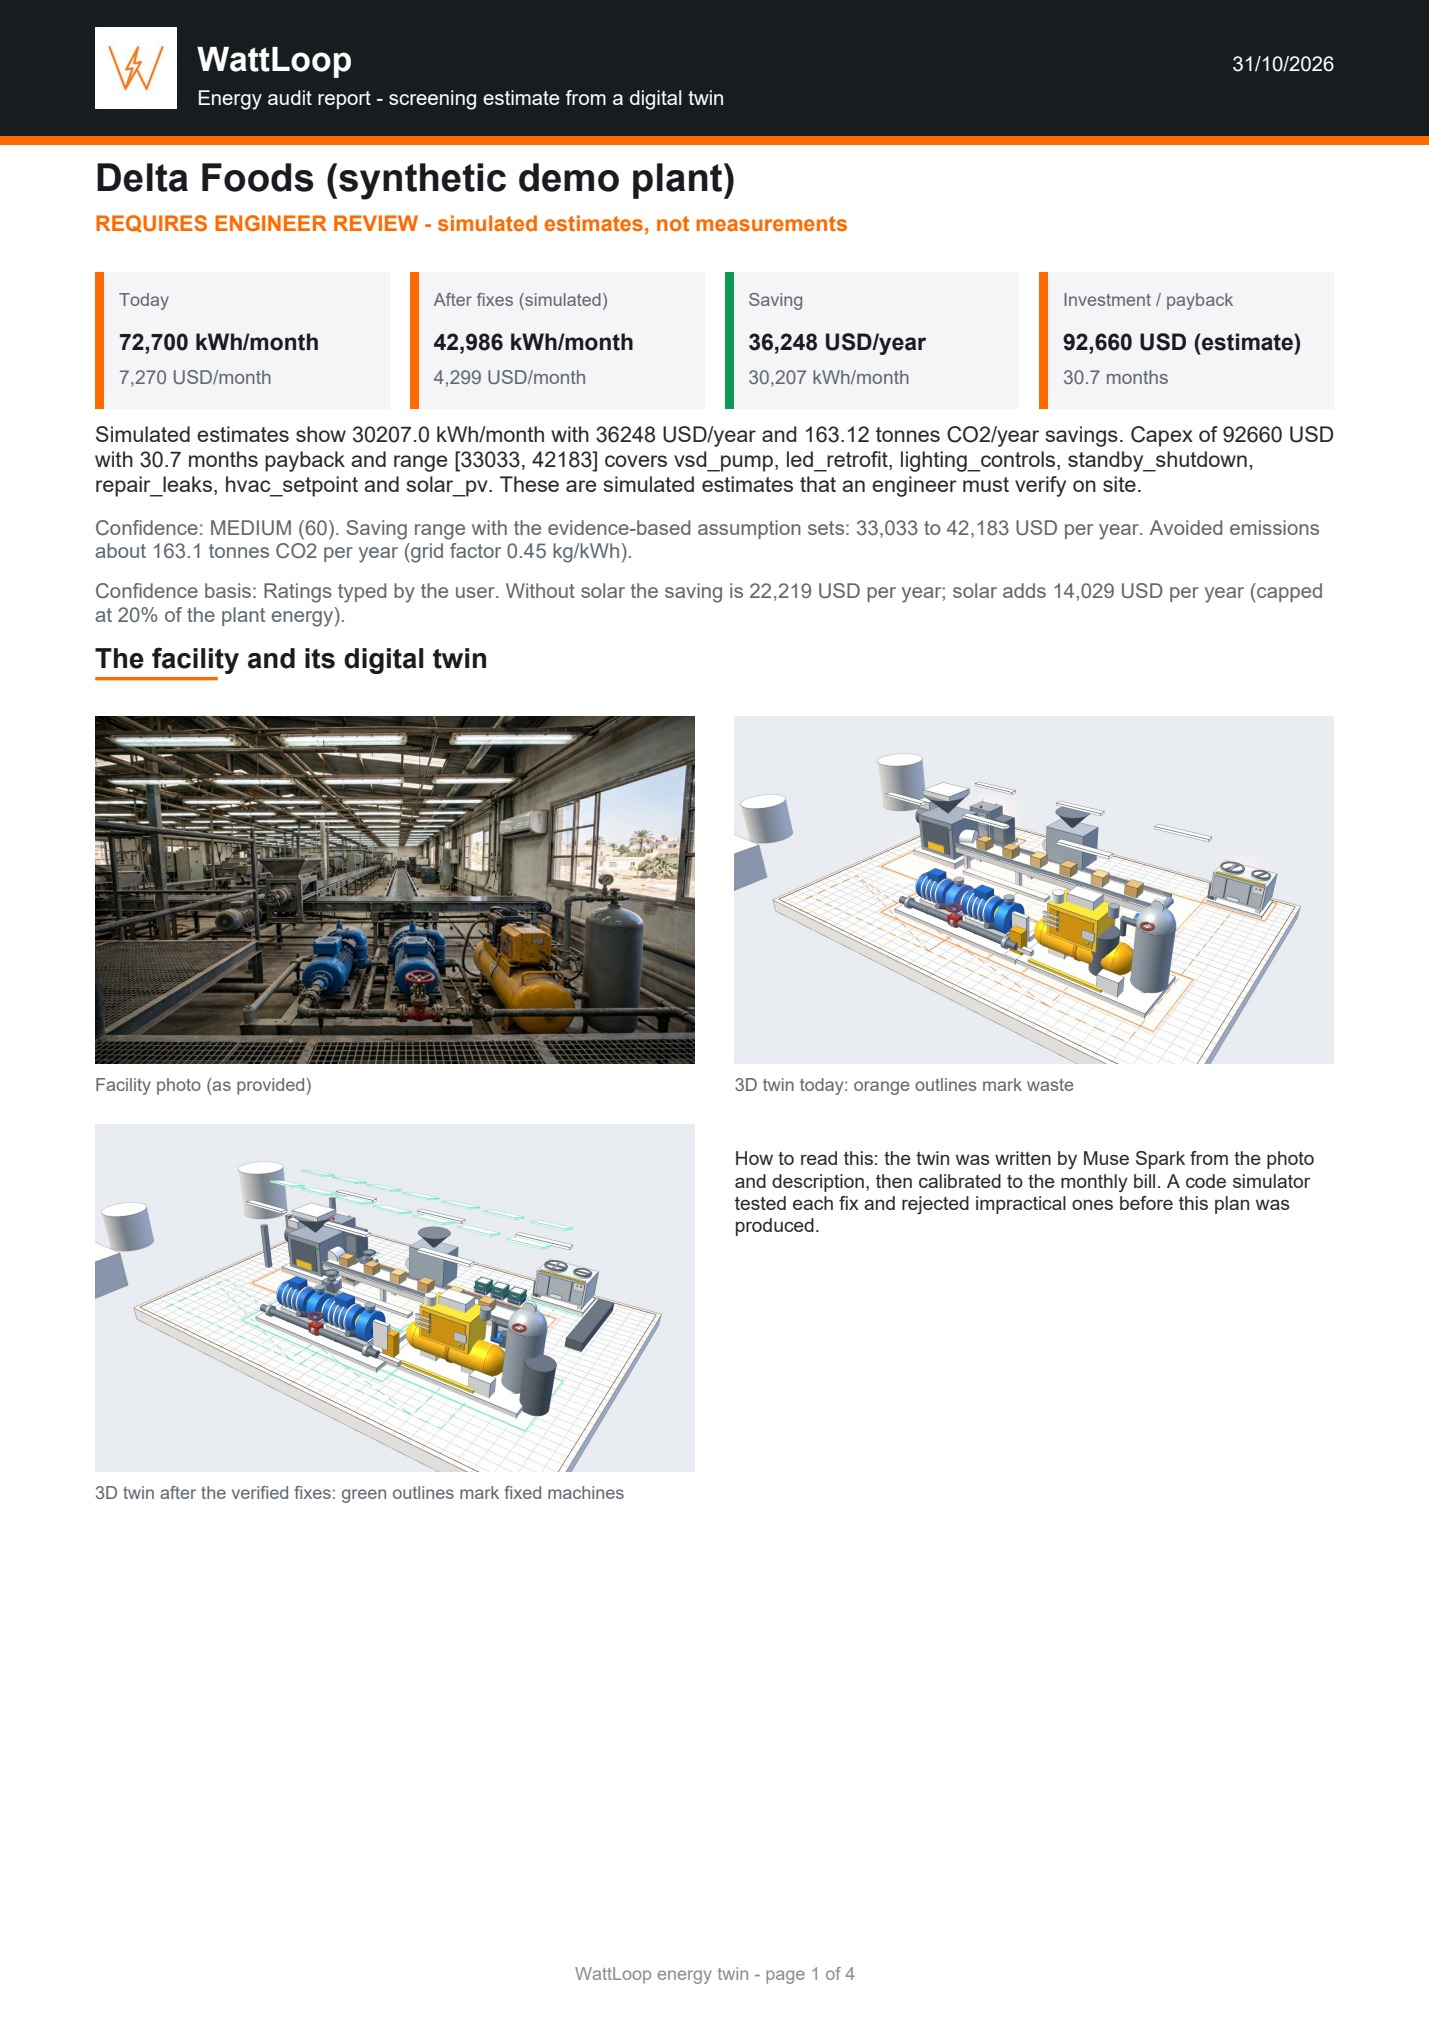
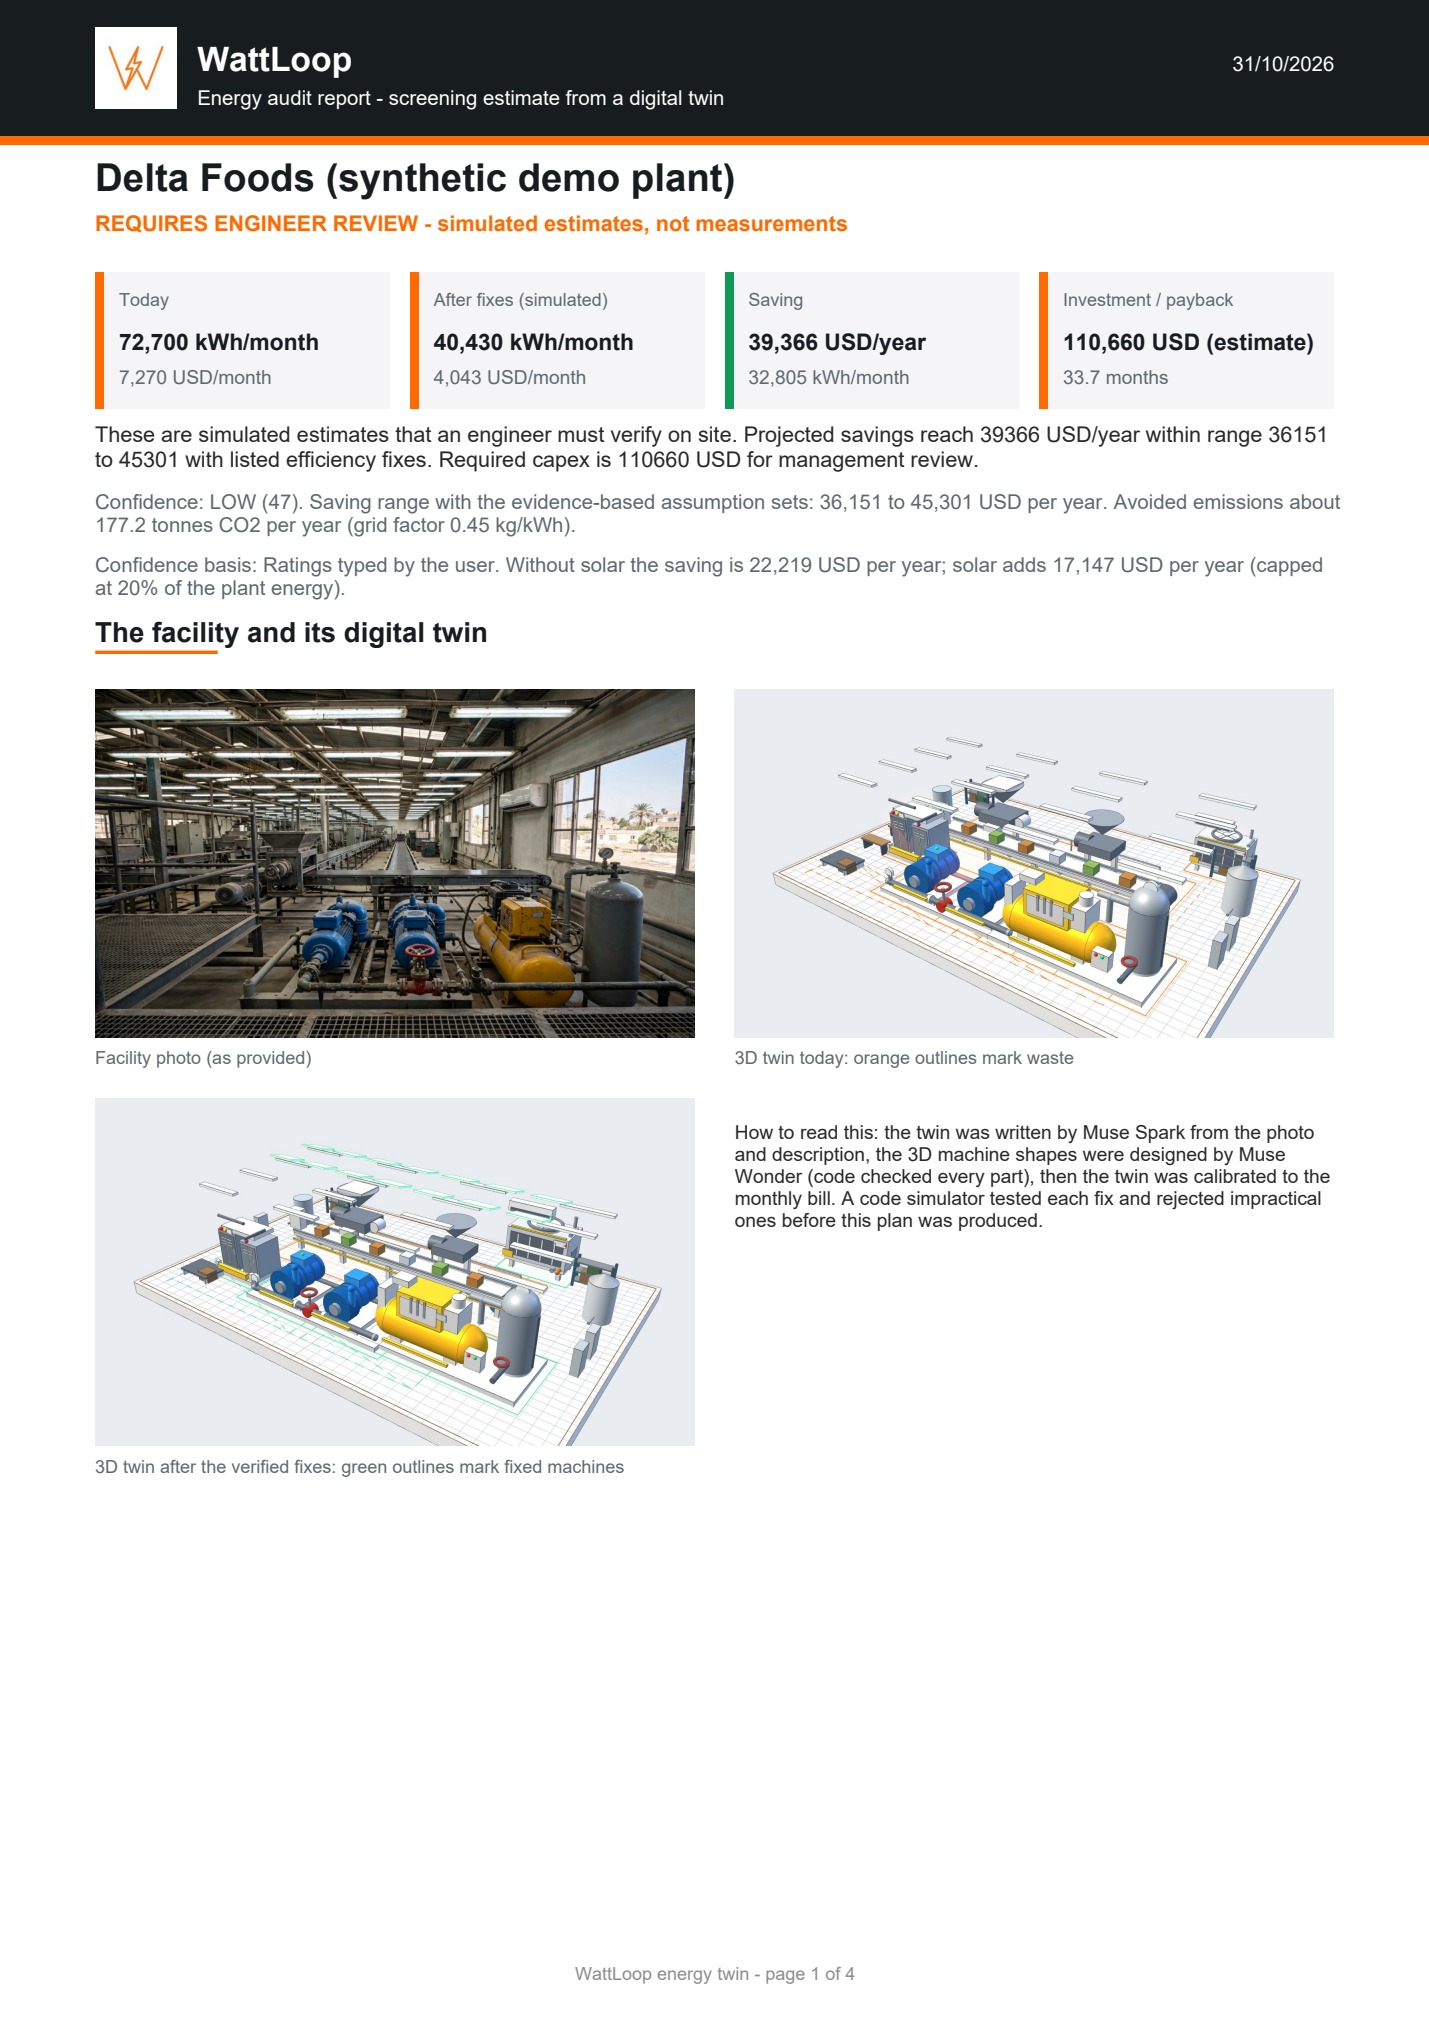
Demo plants carry full-AI halls; new README screenshots from a real run; workflow node counts parts; notes

Changed region(s): [[0.0616, 0.1559, 0.9237, 0.7481]]

diff --git a/static/flow.js b/static/flow.js
@@ -141,7 +141,7 @@ const WF = (() => {
       case "vision": return (o.equipment ? o.equipment.length : 0) + " ITEMS";
       case "segment": return (o.boxes ? o.boxes.length : 0) + " REGIONS";
       case "engineer": return (o.spec ? o.spec.components.length : 0) + " PARTS";
-      case "design": return ((o.design && o.design.extras) ? o.design.extras.length : 0) + " PROPS";
+      case "design": { const sp = o.spec || {}; return ((sp.hall && sp.hall.length) || 0) + ((sp.components || []).reduce((n, c) => n + ((c.design && c.design.parts) ? c.design.parts.length : 0), 0)) + " PARTS"; }
       case "calibrate": return "ERR " + (o.final_err_pct > 0 ? "+" : "") + o.final_err_pct + "%";
       case "hunt": return (o.plan ? o.plan.length : 0) + " FIXES";
       case "verify": return (o.accepted || 0) + " OK · " + (o.rejected || 0) + " NO";

diff --git a/tools/make_demo_halls.py b/tools/make_demo_halls.py
@@ -1,0 +1,24 @@
+"""Regenerate the pre-made 3D of the 9 gallery demo plants with the live design step (machines + full-AI hall). ~ $0.35 per plant.
+Usage: python tools/make_demo_halls.py <id> ...   -> wattloop/data/demo_parts.json (machines) and wattloop/data/demo_halls.json (hall)"""
+import copy, json, sys
+from pathlib import Path
+sys.path.insert(0, str(Path(__file__).resolve().parent.parent))
+from wattloop import meta, parts, pipeline, scene  # noqa: E402
+
+ROOT = Path(__file__).resolve().parent.parent
+D = {d["id"]: d for d in json.loads((ROOT / "static/dev/designs.json").read_text())}
+fp, fh = ROOT / "wattloop/data/demo_parts.json", ROOT / "wattloop/data/demo_halls.json"
+for pid in sys.argv[1:]:
+    d = D[pid]
+    spec = copy.deepcopy(d["spec"])
+    for c in spec["components"]:
+        c.pop("design", None) if False else None
+    spec.pop("extras", None)
+    run = pipeline.Run({"description": "", "bill_kwh": 1, "shift": spec["shift"], "name": d["title"]}, (ROOT / "static/gallery" / Path(d["file"]).name).read_bytes())
+    out, info = pipeline.scene_designer(run, spec, d["obs"], d["boxes_list"])
+    P = json.loads(fp.read_text()) if fp.exists() else {}
+    H = json.loads(fh.read_text()) if fh.exists() else {}
+    P[pid] = {c["id"]: c["design"]["parts"] for c in out["spec"]["components"] if (c.get("design") or {}).get("parts")}
+    H[pid] = out["spec"].get("hall", [])
+    fp.write_text(json.dumps(P)); fh.write_text(json.dumps(H))
+    print(pid, {k: len(v) for k, v in P[pid].items()}, len(H[pid]), "hall parts", round(info.get("usd", 0), 3), flush=True)

diff --git a/server.py b/server.py
@@ -231,6 +231,11 @@ def _demo_parts(spec: dict, pid: str) -> None:
     f = Path(__file__).parent / "wattloop" / "data" / "demo_parts.json"
     if f.exists():
         parts.apply_parts(spec, json.loads(f.read_text(encoding="utf-8")).get(pid, {}))
+    fh = Path(__file__).parent / "wattloop" / "data" / "demo_halls.json"
+    if fh.exists():
+        hall = json.loads(fh.read_text(encoding="utf-8")).get(pid)
+        if hall:
+            spec["hall"] = hall
 
 
 def _demo_design(spec: dict) -> None:
